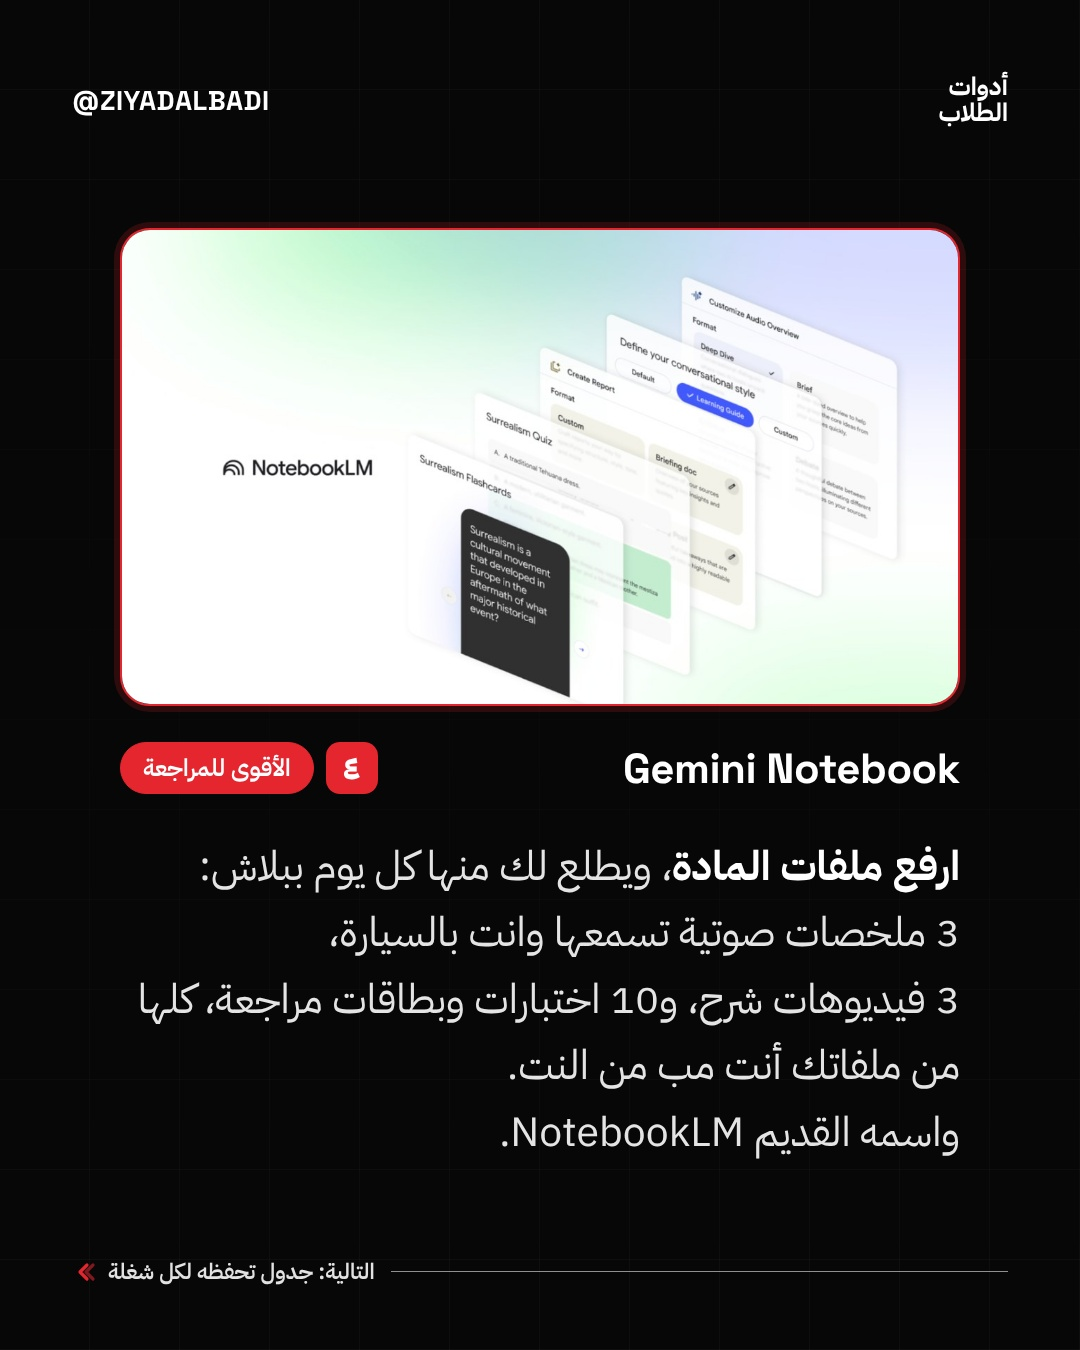
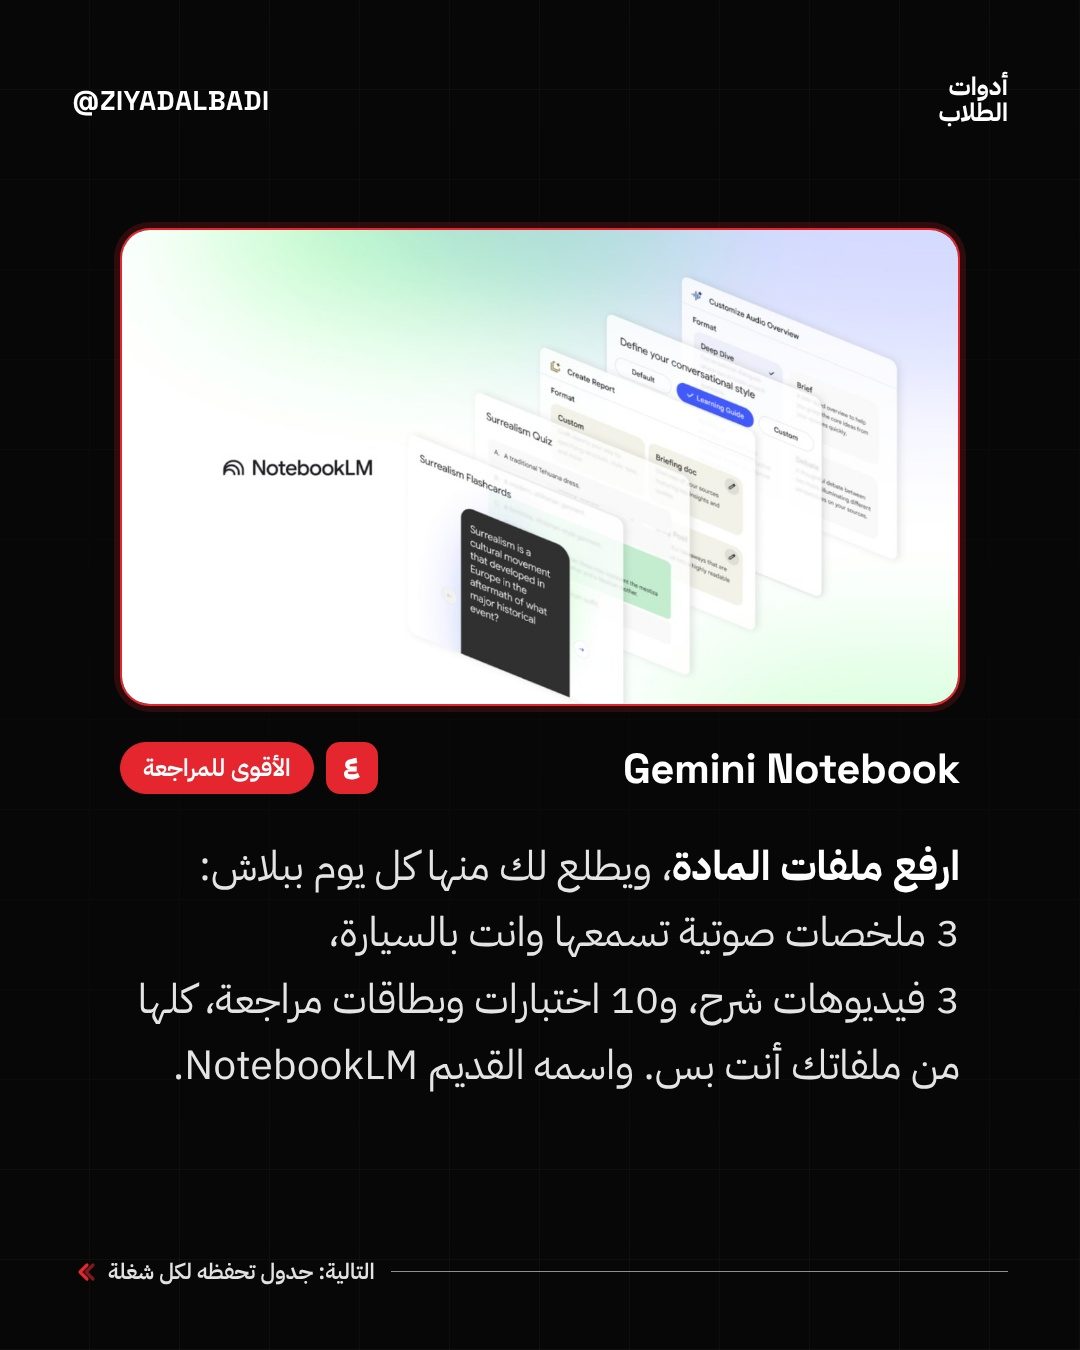
Hook bank (toolkit/hooks.md) adopted for all content; drop banned word from student slide 5
Claude-Session: https://claude.ai/code/session_01KfNMA3U7kT2oyRtTnKGRw8

Changed region(s): [[0.1528, 0.7778, 0.7028, 0.8711], [0.7028, 0.8089, 0.8861, 0.8711]]

diff --git a/toolkit/hooks.md b/toolkit/hooks.md
@@ -1,0 +1,92 @@
+# مكتبة الهوكات (@ziyadalbadi)
+
+زياد اعتمد هالأنماط لكل محتوانا: كاروسيل، ريلز، كابشن، وأول سطر في أي فكرة.
+مصدر الإلهام: بوست @tatweer.digital «أقوى هوك لسرقة الانتباه في أول 3 ثواني» (14 سبتمبر 2026): https://www.instagram.com/p/DdR0lfKgDXH/
+الصياغة هنا خليجية ومكيّفة لمحتوانا (ذكاء اصطناعي، تقنية، سيارات، عُمان).
+
+## القواعد
+١. الهوك 8 كلمات بالكثير، ويكون صحيح 100%.
+٢. الأنماط اللي فيها تجربة شخصية («جربت»، «غلطت»، «ندمت»، «وفّر علي») ما نستخدمها إلا إذا زياد فعلًا جرّبها.
+٣. الهوك يفتح سؤال وما يعطي الجواب، والفايدة في آخر سلايد أو آخر ثانية (قاعدة @owais.media).
+٤. في كل فكرة نقترح 2 أو 3 هوكات من أنماط مختلفة، ونكتب رقم النمط جنب كل هوك.
+٥. كل هوك يمر على البوابة الثابتة قبل ما يوصل لزياد.
+٦. كلمة «مب» ممنوعة في كل محتوانا.
+٧. في الكابشن تنكتب أسماء الأدوات بالعربي. في السلايدات عادي بالإنجليزي.
+
+## الأنماط
+
+### ١. نداء الجمهور
+يكلّم شخص معيّن عشان يحس إن البوست له.
+- «طالب جامعة؟ …»
+- «عندك سيارة …؟ …»
+- «ارفع يدك إذا …»
+- «إذا للحين تعاني من …»
+مثال: «طالب جامعة؟ 4 أدوات ذكاء اصطناعي ببلاش»
+
+### ٢. السر
+يوعد بمعلومة قليل يعرفها.
+- «عندي لك سر عن …»
+- «اللي محد يقولك عنه في …»
+- «اللي ما يبونك تعرفه عن …»
+- «كنت مخبي هالشي من فترة»
+مثال: «ميزة في شات جي بي تي محد يقولك عنها»
+
+### ٣. الغلط والتحذير
+يخوّف من خسارة وقت أو فلوس.
+- «وقف هالغلط في …»
+- «هالغلط مكلفك واجد»
+- «إذا للحين تسوي … وقف»
+- «انت تستخدم … غلط»
+مثال: «انت تكتب البرومبت غلط»
+
+### ٤. النتيجة المجربة (بس إذا صدق)
+نتيجة ملموسة مع مدة أو رقم.
+- «جربت … 30 يوم»
+- «كذا صلّحت … في 3 أيام»
+- «… وفّر علي ساعات»
+- «من صفر إلى …»
+مثال: «جربت كلود ديزاين على بوست مقهى»
+
+### ٥. كسر الاعتقاد
+يقلب شي الناس مصدقينه.
+- «هذي الحقيقة عن …»
+- «الكل غلطان في …»
+- «ويش لو قلت لك إن …»
+- «خلنا نحسمها مرة وحدة»
+مثال: «ويش لو قلت لك إن جيميناي ببلاش للطلاب؟»
+
+### ٦. الترند
+يركب على شي الكل يتكلم عنه.
+- «الكل يسوي … الحين»
+- «… مسوي ضجة»
+- «هذا في كل مكان بانستا»
+مثال: «الكل يسأل عن جي بي تي 6، هذا الفرق»
+
+### ٧. الاستبدال والحل
+يعطي بديل أسهل أو أرخص.
+- «بدّل … بهذا»
+- «هذا الحل الحقيقي لـ …»
+- «لا تتعب في … بعد اليوم»
+مثال: «بدّل فوتوشوب بهالأداة المجانية»
+
+### ٨. القائمة والرقم
+رقم واضح يوعد بقيمة محددة.
+- «أفضل 5 … »
+- «7 طرق عشان …»
+- «4 أدوات … ببلاش»
+مثال: «3 أوامر تخلي الذكاء الاصطناعي يشتغل عنك»
+
+### ٩. القصة
+يبدأ بلحظة تخلي الواحد يكمل.
+- «ما توقعت هذا أبد»
+- «اليوم اللي تغيّر فيه كل شي»
+- «كذا سويتها»
+- «أكبر غلط سويته كان …»
+مثال: «ما توقعت إن سيارة صينية تسوي كذا»
+
+### ١٠. حبس الانتباه (سطر ثاني، ما يكون هوك لحاله)
+يجي تحت الهوك أو بين السلايدات عشان يكمل للأخير.
+- «لا تسحب إذا تبي …»
+- «شوف للأخير»
+- «هنا يبدأ الشي الحلو»
+- «والرابعة أقواهم»

diff --git a/CLAUDE.md b/CLAUDE.md
@@ -9,6 +9,7 @@ Media and tooling for Ziyad's Instagram @ziyadalbadi (Oman; Arabic; AI, tech, ca
 - Content tracker: `plan/ziyad-content-schedule.xlsx`.
 - This repo is public (Instagram fetches media from raw.githubusercontent.com). Never commit secrets or private data.
 - Captions are Arabic only (mixed Arabic/English gets scrambled on Instagram): write brand names in Arabic.
+- Hooks: build every hook (carousel cover, reel opening, caption first line) from a pattern in `toolkit/hooks.md`. Ziyad adopted it for all content. Offer 2–3 hooks from different patterns and tag each with its pattern number.
 
 ## Fixed review gate (every idea, carousel and reel; never skip)
 Run it and show the result to Ziyad before presenting anything; fix what fails first.
